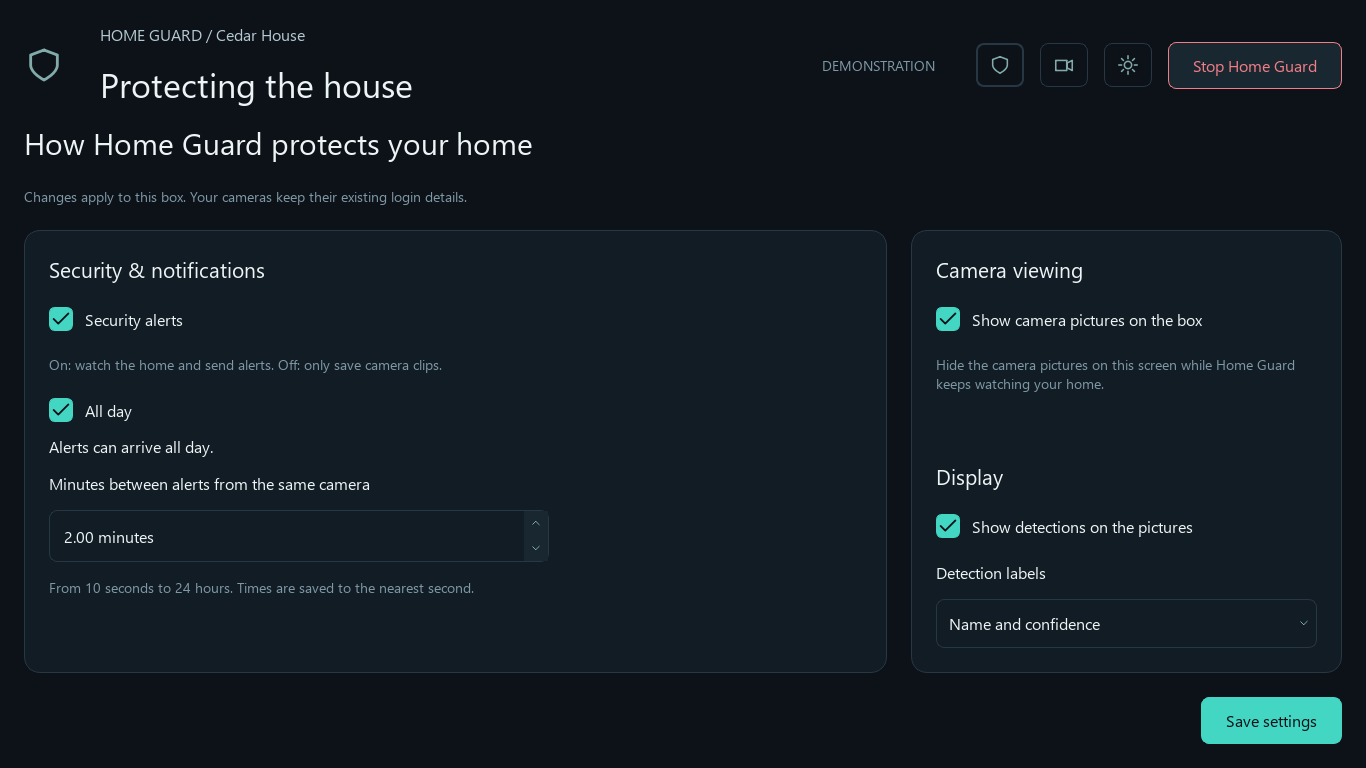
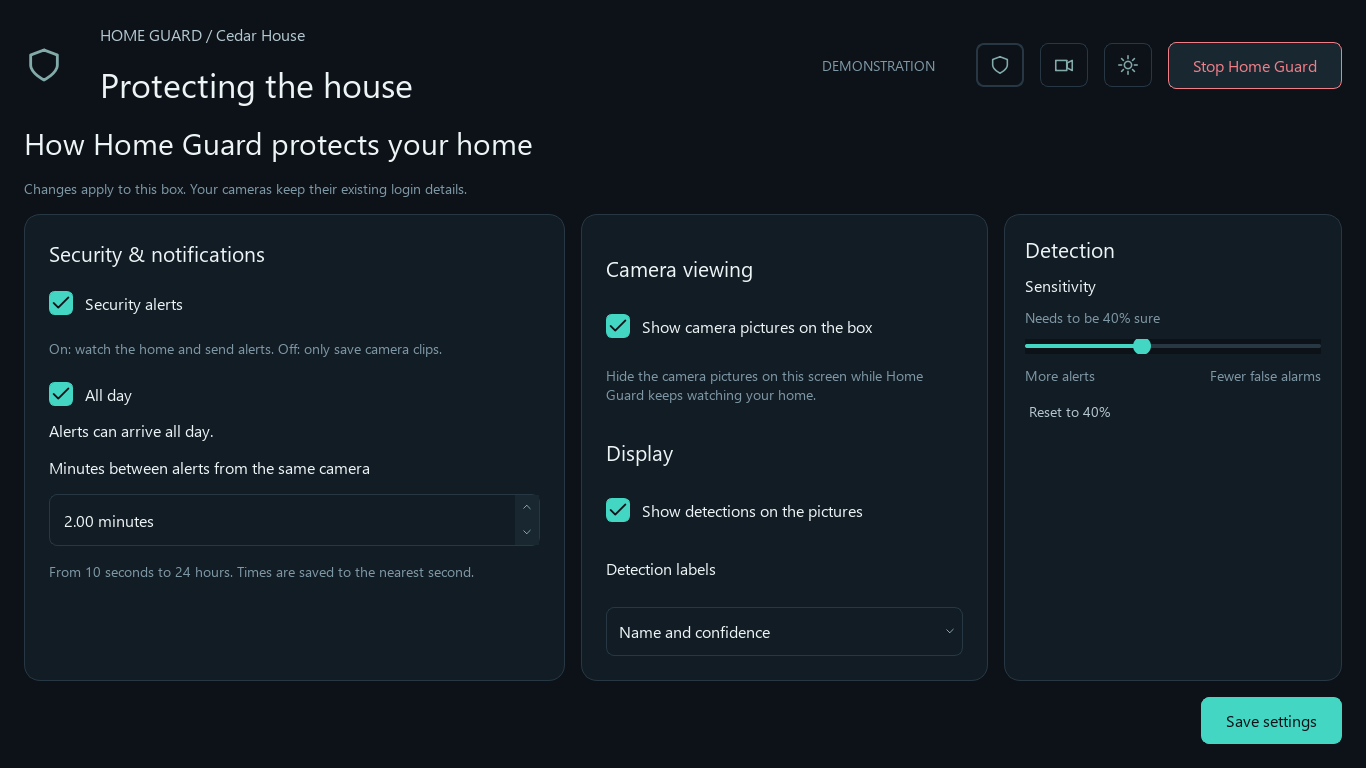
Apply detector sensitivity and alert timing live with reported confirmation

diff --git a/home_guard_project/box/app/settings_ui.py b/home_guard_project/box/app/settings_ui.py
@@ -1,5 +1,7 @@
-from PySide6.QtCore import QTimer
-from PySide6.QtWidgets import QCheckBox, QSpinBox, QDoubleSpinBox, QPushButton, QHBoxLayout, QGridLayout, QComboBox
+from PySide6.QtCore import QTimer, Qt
+from dataclasses import replace
+from .live_settings import AppliedState,slider_conf,conf_slider
+from PySide6.QtWidgets import QCheckBox, QSpinBox, QDoubleSpinBox, QPushButton, QHBoxLayout, QGridLayout, QComboBox, QSlider
 from .strings import tr
 from .theme import OK, ERROR, WARNING
 from .box_controls import Settings, minutes_to_seconds
@@ -10,9 +12,10 @@ class SettingsPage:
     def __init__(self, box, changed, viewer=None, viewer_changed=None):
         from PySide6.QtWidgets import QWidget
         self.box,self.changed=box,changed
-        self.widget=QWidget();layout=layout_for(self.widget,0);layout.setSpacing(24)
+        self.loading=False;self.ack=AppliedState()
+        self.widget=QWidget();layout=layout_for(self.widget,0);layout.setSpacing(16)
         layout.addWidget(label(tr("settings_title"),"title"));layout.addWidget(label(tr("settings_hint"),"muted"))
-        columns=QHBoxLayout();columns.setSpacing(24)
+        columns=QHBoxLayout();columns.setSpacing(16)
         security=card();form=layout_for(security,24);form.setSpacing(16)
         form.addWidget(label(tr("premium_security"),"section"))
         self.alerts=QCheckBox(tr("security_alerts"));form.addWidget(self.alerts)
@@ -22,8 +25,8 @@ class SettingsPage:
         form.addWidget(label(tr("cooldown")))
         self.cooldown=QDoubleSpinBox();self.cooldown.setDecimals(2);self.cooldown.setRange(.17,1440);self.cooldown.setSingleStep(1);self.cooldown.setSuffix(tr("minutes_suffix"));self.cooldown.setMaximumWidth(500);form.addWidget(self.cooldown)
         form.addWidget(label(tr("cooldown_hint"),"muted"));form.addStretch()
-        viewing=card();view=layout_for(viewing,24);view.setSpacing(16)
-        view.addWidget(label(tr("premium_viewing"),"section"));self.pictures=QCheckBox(tr("show"));view.addWidget(self.pictures);view.addWidget(label(tr("premium_view_hint"),"muted"));view.addStretch()
+        viewing=card();view=layout_for(viewing,24);view.setSpacing(10)
+        view.addWidget(label(tr("premium_viewing"),"section"));self.pictures=QCheckBox(tr("show"));view.addWidget(self.pictures);view.addWidget(label(tr("premium_view_hint"),"muted"))
         view.addWidget(label(tr("display_group"),"section"))
         self.detections=QCheckBox(tr("show_detections"));view.addWidget(self.detections)
         view.addWidget(label(tr("detection_labels")))
@@ -33,7 +36,20 @@ class SettingsPage:
         self.sync_viewer(viewer or ViewerSettings())
         self.detections.toggled.connect(lambda value:self.viewer_changed(detections=value))
         self.labels.currentIndexChanged.connect(lambda index:self.viewer_changed(detection_labels=("confidence","name","none")[index]))
-        columns.addWidget(security,2);columns.addWidget(viewing,1);layout.addLayout(columns,1)
+        detection=card();detect=layout_for(detection,20);detect.setSpacing(12)
+        detect.addWidget(label(tr("detection_group"),"section"))
+        detect.addWidget(label(tr("sensitivity")))
+        self.sensitivity=QSlider(Qt.Orientation.Horizontal);self.sensitivity.setRange(1,19);self.sensitivity.setSingleStep(1);self.sensitivity.setPageStep(1);self.sensitivity.setValue(8)
+        self.certainty=label(tr("certainty_required",percent=40),"muted");detect.addWidget(self.certainty)
+        self.sensitivity.valueChanged.connect(lambda value:self.certainty.setText(tr("certainty_required",percent=round(slider_conf(value)*100))))
+        self.sensitivity.sliderReleased.connect(self.sensitivity_released)
+        detect.addWidget(self.sensitivity)
+        ends=QHBoxLayout();ends.addWidget(label(tr("more_alerts"),"muted"));ends.addStretch();ends.addWidget(label(tr("fewer_false_alarms"),"muted"));detect.addLayout(ends)
+        reset=QPushButton(tr("reset_sensitivity"));reset.setObjectName("textAction");reset.clicked.connect(self.reset_sensitivity);detect.addWidget(reset,0,Qt.AlignmentFlag.AlignLeft)
+        detect.addStretch()
+        self.start.editingFinished.connect(self.live_hours);self.end.editingFinished.connect(self.live_hours);self.hours.all_day.toggled.connect(self.live_hours)
+        self.cooldown.editingFinished.connect(self.live_cooldown)
+        columns.addWidget(security,8);columns.addWidget(viewing,6);columns.addWidget(detection,5);layout.addLayout(columns,1)
         footer=QHBoxLayout();self.note=label("","muted");footer.addWidget(self.note,1)
         self.save=QPushButton(tr("save_settings"));self.save.clicked.connect(self.save_clicked);footer.addWidget(self.save);layout.addLayout(footer)
         self.waiting=False;self.timer=QTimer(self.widget);self.timer.timeout.connect(self.check_applied);self.timer.start(250)
@@ -45,16 +61,19 @@ class SettingsPage:
         self.detections.blockSignals(False);self.labels.blockSignals(False)
 
     def reload(self):
+        self.loading=True
         try:
             settings = self.box.load_settings()
             self.alerts.setChecked(settings.mode == "inference")
             self.hours.set_hours(settings.alert_start_hour, settings.alert_end_hour)
             self.cooldown.setValue(settings.alert_cooldown_sec/60)
             self.pictures.setChecked(settings.show_cameras)
+            self.sensitivity.setValue(conf_slider(settings.inference_conf))
             self.note.setText("")
         except Exception:
             self.note.setStyleSheet(f"color: {ERROR};")
             self.note.setText(tr("control_error"))
+        self.loading=False
         self.hours_changed()
 
     def hours_changed(self):
@@ -63,20 +82,48 @@ class SettingsPage:
         start, end = self.start.value(), self.end.value()
         self.hours_note.setText(tr("all_day") if start == end else tr("hours_overnight" if end < start else "hours_window", start=start, end=end))
 
-    def save_clicked(self):
-        settings = Settings("inference" if self.alerts.isChecked() else "data_collection", *self.hours.values(), minutes_to_seconds(self.cooldown.value()), self.pictures.isChecked())
+    def sensitivity_released(self):
+        self.apply_live(inference_conf=slider_conf(self.sensitivity.value()))
+
+    def reset_sensitivity(self):
+        self.sensitivity.setValue(8);self.sensitivity_released()
+
+    def live_hours(self):
+        start,end=self.hours.values();self.apply_live(alert_start_hour=start,alert_end_hour=end)
+
+    def live_cooldown(self):
+        self.apply_live(alert_cooldown_sec=minutes_to_seconds(self.cooldown.value()))
+
+    def apply_live(self,**changes):
+        if self.loading or not self.save.isEnabled(): return
         try:
+            before=self.box.load_settings();after=replace(before,**changes)
+            if before == after: return
+            self.box.save_settings(after);self.ack.request(before,after,self.box.clock())
+            self.note.setStyleSheet('color: '+WARNING);self.note.setText(tr('applying'))
+            self.changed()
+        except Exception:
+            self.note.setStyleSheet('color: '+ERROR);self.note.setText(tr('control_error'))
+
+    def save_clicked(self):
+        settings = Settings("inference" if self.alerts.isChecked() else "data_collection", *self.hours.values(), minutes_to_seconds(self.cooldown.value()), self.pictures.isChecked(),slider_conf(self.sensitivity.value()))
+        try:
+            before=self.box.load_settings()
             self.box.save_settings(settings)
+            self.ack.request(before,settings,self.box.clock())
             self.waiting = self.box.phase() == "restarting"
             self.save.setEnabled(not self.waiting)
-            self.note.setStyleSheet(f"color: {WARNING if self.waiting else OK};")
-            self.note.setText(tr("applying") if self.waiting else tr("saved_stopped") if self.box.is_stopped() else tr("settings_saved"))
+            self.note.setStyleSheet(f"color: {WARNING if self.waiting or self.ack.expected else OK};")
+            self.note.setText(tr("applying") if self.waiting or self.ack.expected else tr("saved_stopped") if self.box.is_stopped() else tr("settings_saved"))
             self.changed()
         except Exception:
             self.note.setStyleSheet(f"color: {ERROR};")
             self.note.setText(tr("control_error"))
 
     def check_applied(self):
+        if self.ack.expected:
+            status=self.ack.status(self.box.reported_status(),self.box.clock())
+            self.note.setText(tr("live_applied" if status=="applied" else status));self.note.setStyleSheet('color: '+(OK if status=='applied' else WARNING))
         if not self.waiting:
             return
         phase = self.box.phase()
@@ -84,6 +131,7 @@ class SettingsPage:
             self.waiting = False
             self.save.setEnabled(True)
             self.note.setStyleSheet(f"color: {OK};")
-            self.note.setText(tr("saved_stopped") if phase == "stopped" else tr("applied"))
+            if not self.ack.expected:
+                self.note.setText(tr("saved_stopped") if phase == "stopped" else tr("applied"))
         elif self.box.clock() - self.box.pending_at > 30:
             self.note.setText(tr("apply_slow"))

diff --git a/tests/box/test_live_viewer_settings.py b/tests/box/test_live_viewer_settings.py
@@ -1,0 +1,63 @@
+import os
+os.environ.setdefault('QT_QPA_PLATFORM','offscreen')
+import unittest
+from dataclasses import replace
+from types import SimpleNamespace
+from unittest.mock import Mock, patch
+from home_guard_project.box.app.box_controls import Settings, BoxControls, RemoteSettingsBackend
+from home_guard_project.box.app.live_settings import AppliedState, slider_conf, conf_slider
+
+class LiveSettingsTests(unittest.TestCase):
+    def test_slider_and_validation(self):
+        for step in range(1,20):
+            self.assertEqual(conf_slider(slider_conf(step)),step)
+            Settings(inference_conf=slider_conf(step))
+        for invalid in (0,.049,.951,1,float('nan'),True,'0.4'):
+            with self.assertRaises(ValueError): Settings(inference_conf=invalid)
+
+    def test_runtime_tables_choose_restart(self):
+        original=Settings()
+        with patch('home_guard_project.box.app.box_controls.boxconfig.get_option',side_effect=lambda key:original.options()[key]), patch('home_guard_project.box.app.box_controls.boxconfig.set_option') as write, patch('home_guard_project.box.app.box_controls.control.request_restart') as restart:
+            box=BoxControls()
+            self.assertFalse(box.save_settings(replace(original,inference_conf=.35,alert_start_hour=22,alert_end_hour=6,alert_cooldown_sec=300)))
+            restart.assert_not_called()
+            self.assertIn(unittest.mock.call('inference_conf','0.35'),write.call_args_list)
+            with patch.object(box,'is_stopped',return_value=False):
+                self.assertTrue(box.save_settings(replace(original,mode='inference')))
+            restart.assert_called_once()
+
+    def test_recorded_applied_status(self):
+        before=Settings(); after=replace(before,inference_conf=.35,alert_start_hour=22,alert_end_hour=6,alert_cooldown_sec=300)
+        ack=AppliedState();ack.request(before,after,100)
+        data={'updated':102,'settings':{'conf':.35,'alert_start_hour':22,'alert_end_hour':6,'cooldown_sec':300}}
+        self.assertEqual(ack.status({},102),'applying')
+        self.assertEqual(ack.status(dict(data,updated=1),110),'live_not_picked_up')
+        self.assertEqual(ack.status(data,103),'applied')
+        self.assertFalse(ack.expected)
+        ack.request(before,after,100)
+        data['settings']['cooldown_sec']=120
+        self.assertEqual(ack.status(data,110),'live_not_picked_up')
+
+    def test_remote_decimal_passes_unchanged(self):
+        runner=Mock();runner.run.return_value=SimpleNamespace(returncode=0)
+        backend=RemoteSettingsBackend('installer@box',Settings(),runner,lambda:{},key='test-key')
+        self.assertFalse(backend.save_settings(replace(Settings(),inference_conf=.35)))
+        self.assertTrue(runner.run.call_args.args[0][-1].endswith('set-option inference_conf=0.35'))
+        self.assertEqual(backend.load_settings().inference_conf,.35)
+
+    def test_slider_only_writes_on_release(self):
+        from PySide6.QtWidgets import QApplication
+        from home_guard_project.box.app.settings_ui import SettingsPage
+        app=QApplication.instance() or QApplication([])
+        box=BoxControls(demo=True); page=SettingsPage(box,lambda:None);page.reload()
+        with patch.object(box,'save_settings',wraps=box.save_settings) as save:
+            page.sensitivity.setValue(7)
+            save.assert_not_called()
+            page.sensitivity.sliderReleased.emit()
+            save.assert_called_once()
+            self.assertEqual(box.load_settings().inference_conf,.35)
+            page.check_applied()
+            self.assertEqual(page.note.text(),'Applied')
+            page.sensitivity.sliderReleased.emit()
+            save.assert_called_once()
+        page.widget.close();page.timer.stop()

diff --git a/home_guard_project/box/app/box_controls.py b/home_guard_project/box/app/box_controls.py
@@ -1,5 +1,5 @@
 """Local control adapter and an isolated, mutable demo box."""
-from dataclasses import dataclass
+from dataclasses import dataclass, replace
 from pathlib import Path
 import time
 from decimal import Decimal, ROUND_HALF_UP
@@ -13,6 +13,7 @@ class Settings:
     alert_end_hour: int = 0
     alert_cooldown_sec: int = 120
     show_cameras: bool = False
+    inference_conf: float = 0.4
 
     def __post_init__(self):
         if self.mode not in boxconfig.MODES or type(self.show_cameras) is not bool:
@@ -21,9 +22,12 @@ class Settings:
             value = getattr(self, key)
             if type(value) is not int or not limits[0] <= value <= limits[1]:
                 raise ValueError("Invalid settings")
+        for key,(low,high) in boxconfig.DECIMAL_OPTIONS.items():
+            value=getattr(self,key)
+            if type(value) not in (int,float) or not low<=value<=high: raise ValueError('Invalid settings')
 
     def options(self):
-        return {key: getattr(self, key) for key in ("mode", "alert_start_hour", "alert_end_hour", "alert_cooldown_sec", "show_cameras")}
+        return {key: getattr(self, key) for key in ("mode", "alert_start_hour", "alert_end_hour", "alert_cooldown_sec", "show_cameras", "inference_conf")}
 
     @classmethod
     def from_options(cls, options):
@@ -66,6 +70,13 @@ class BoxControls:
             return self._settings
         return Settings.from_options({key: boxconfig.get_option(key) for key in Settings().options()})
 
+    def reported_status(self):
+        if self.demo:
+            s=self._settings
+            return {'updated':self.clock(),'settings':dict(conf=s.inference_conf,alert_start_hour=s.alert_start_hour,alert_end_hour=s.alert_end_hour,cooldown_sec=s.alert_cooldown_sec)}
+        from ..ai_status import read_status
+        return read_status(Path(boxconfig.LOG_DIR)/'ai_status.json')
+
     def save_settings(self, settings):
         previous = self.load_settings()
         changed = {key: value for key, value in settings.options().items() if previous.options()[key] != value}
@@ -106,3 +117,27 @@ class BoxControls:
                 return "restarting"
             self.pending_at = None
         return "running" if running else "starting"
+
+class RemoteSettingsBackend:
+    """Settings transport for a laptop connection, with injectable process/status readers."""
+    def __init__(self, target, settings, runner, status_reader, key=None, clock=time.time):
+        from .remote_cameras import target_user
+        target_user(target)
+        self.target, self._settings = target, settings
+        self.runner, self.status_reader, self.clock = runner, status_reader, clock
+        self.key = Path(key) if key else Path.home()/'.ssh'/'homeguard_box'
+
+    def load_settings(self): return self._settings
+
+    def reported_status(self): return self.status_reader()
+
+    def save_settings(self, settings):
+        changed = {key:value for key,value in settings.options().items() if self._settings.options()[key]!=value}
+        for key,value in changed.items():
+            value = str(value).lower() if isinstance(value,bool) else str(value)
+            command = r'cd /d C:\home_guard && .venv\Scripts\python.exe -m home_guard_project.box set-option '+key+'='+value
+            result = self.runner.run(['ssh.exe','-i',str(self.key),'-o','LogLevel=ERROR',self.target,command])
+            if result.returncode: raise RuntimeError('Settings command failed')
+            self._settings = replace(self._settings, **{key:getattr(settings,key)})
+        # set-option itself requests a restart for keys in the runtime table.
+        return any(key in boxconfig.RESTART_OPTIONS for key in changed)

diff --git a/home_guard_project/box/app/ai_activity_ui.py b/home_guard_project/box/app/ai_activity_ui.py
@@ -33,6 +33,7 @@ class AiActivity(QWidget):
         outer=layout_for(self,16);outer.setSpacing(16)
         heading=QHBoxLayout();bot=QLabel();bot.setPixmap(icon('bot').pixmap(24,24));heading.addWidget(bot);heading.addWidget(label(tr('ai_assistant'),'section'),1);outer.addLayout(heading)
         self.note=label('','muted');outer.addWidget(self.note)
+        self.sensitivity=label('','muted');outer.addWidget(self.sensitivity)
         self.scroll=QScrollArea();self.scroll.setWidgetResizable(True);outer.addWidget(self.scroll,1)
         self.opacity=QGraphicsOpacityEffect(self.scroll);self.scroll.setGraphicsEffect(self.opacity)
         self.thinking=label('','accent');thinking_row=QHBoxLayout();self.thinking_icon=QLabel();self.thinking_icon.setPixmap(icon('bot').pixmap(18,18));thinking_row.addWidget(self.thinking_icon);thinking_row.addWidget(self.thinking,1);outer.addLayout(thinking_row);self.thinking.hide();self.thinking_icon.hide()
@@ -59,6 +60,11 @@ class AiActivity(QWidget):
         if thinking and self.animation.state()!=QVariantAnimation.State.Running: self.animation.start()
         if not thinking: self.animation.stop()
         note=status_note(data,now,stopped) or (tr('ai_delivery_banner') if refused else tr('paused_until',time=time.strftime('%H:%M',time.localtime(paused))) if paused else tr('ai_watching',count=count))
+        settings=data.get("settings",{}) if isinstance(data,dict) else {}
+        try: conf=float(settings["conf"])
+        except (KeyError,TypeError,ValueError): conf=None
+        self.sensitivity.setVisible(conf is not None and math.isfinite(conf))
+        if conf is not None and math.isfinite(conf): self.sensitivity.setText(tr("sensitivity_in_force",percent=round(conf*100)))
         self.note.setText(note);self.note.setObjectName('error' if refused else 'muted');self.note.style().unpolish(self.note);self.note.style().polish(self.note)
         self.opacity.setOpacity(.45 if stopped else 1)
         key=tuple(rows)

diff --git a/home_guard_project/box/app/live_settings.py b/home_guard_project/box/app/live_settings.py
@@ -1,0 +1,22 @@
+"""Slider values and confirmation from the program's reported live settings."""
+import math
+from ..boxconfig import LIVE_OPTIONS
+KEYS={'inference_conf':'conf','alert_start_hour':'alert_start_hour','alert_end_hour':'alert_end_hour','alert_cooldown_sec':'cooldown_sec'}
+def slider_conf(value): return int(value)/20
+def conf_slider(value): return max(1,min(19,int(math.floor(float(value)*20+.5))))
+
+class AppliedState:
+    def __init__(self): self.expected={};self.requested=0
+    def request(self,before,after,now):
+        self.expected.update({KEYS[key]:value for key,value in after.options().items() if key in LIVE_OPTIONS and before.options()[key]!=value})
+        self.requested=now
+    def status(self,data,now):
+        if not self.expected: return ''
+        settings=data.get('settings',{}) if isinstance(data,dict) else {}
+        if not isinstance(settings,dict): settings={}
+        try:
+            matches=all(type(settings.get(key)) in (int,float) and math.isfinite(settings[key]) and abs(settings[key]-value)<1e-6 for key,value in self.expected.items())
+            fresh=0<=now-float(data.get('updated',0))<=15
+        except (TypeError,ValueError): matches=False;fresh=False
+        if matches and fresh: self.expected={};return 'applied'
+        return 'live_not_picked_up' if now-self.requested>=10 else 'applying'

diff --git a/home_guard_project/box/app/theme.py b/home_guard_project/box/app/theme.py
@@ -62,6 +62,10 @@ QScrollBar:horizontal { height: 6px; background: transparent; margin: 0; }
 QScrollBar::handle { background: @border; border-radius: 3px; min-height: 24px; min-width: 24px; }
 QScrollBar::add-line,QScrollBar::sub-line { width: 0; height: 0; }
 QScrollBar::add-page,QScrollBar::sub-page { background: transparent; }
+QSlider::groove:horizontal { background: @border; height: 4px; border-radius: 2px; }
+QSlider::handle:horizontal { background: @action; width: 18px; height: 18px; margin: -7px 0; border-radius: 9px; }
+QSlider::sub-page:horizontal { background: @action; border-radius: 2px; }
+QSlider:focus { border: 1px solid @action; }
 QProgressBar { background: @raised; border: none; border-radius: 4px; height: 8px; text-align: center; }
 QProgressBar::chunk { background: @action; border-radius: 4px; }
 QToolTip { background: @raised; color: @text; border: 1px solid @border; padding: 8px; }

diff --git a/home_guard_project/box/app/strings.py b/home_guard_project/box/app/strings.py
@@ -408,5 +408,7 @@ TEXT.update(summary_details_heading="Setup finished · {house}")
 
 TEXT.update(show_detections="Show detections on the pictures",show_detections_tooltip="Show detections",display_group="Display",detection_labels="Detection labels",labels_confidence="Name and confidence",labels_name="Name only",labels_none="None",viewer_save_error="The display preference could not be saved.")
 
+TEXT.update(live_applied="Applied",detection_group="Detection",sensitivity="Sensitivity",certainty_required="Needs to be {percent}% sure",more_alerts="More alerts",fewer_false_alarms="Fewer false alarms",reset_sensitivity="Reset to 40%",live_not_picked_up="The program has not picked this up yet",sensitivity_in_force="Sensitivity {percent}%")
+
 def tr(key, **values):
     return TEXT[key].format(**values)

diff --git a/home_guard_project/box/app/ui.py b/home_guard_project/box/app/ui.py
@@ -511,6 +511,7 @@ class Window(QMainWindow):
                     self.demo_history_state=self.args.state
                     self.demo_decisions=self.ai_data['decisions']
                 self.ai_data['decisions']=self.demo_decisions
+                self.ai_data['settings']=self.box_controls.reported_status()['settings']
         elif time.monotonic()-self.last_ai_poll>=1:
             data=read_status(str(Path(bc.LOG_DIR)/"ai_status.json"))
             if data: self.ai_data=data
